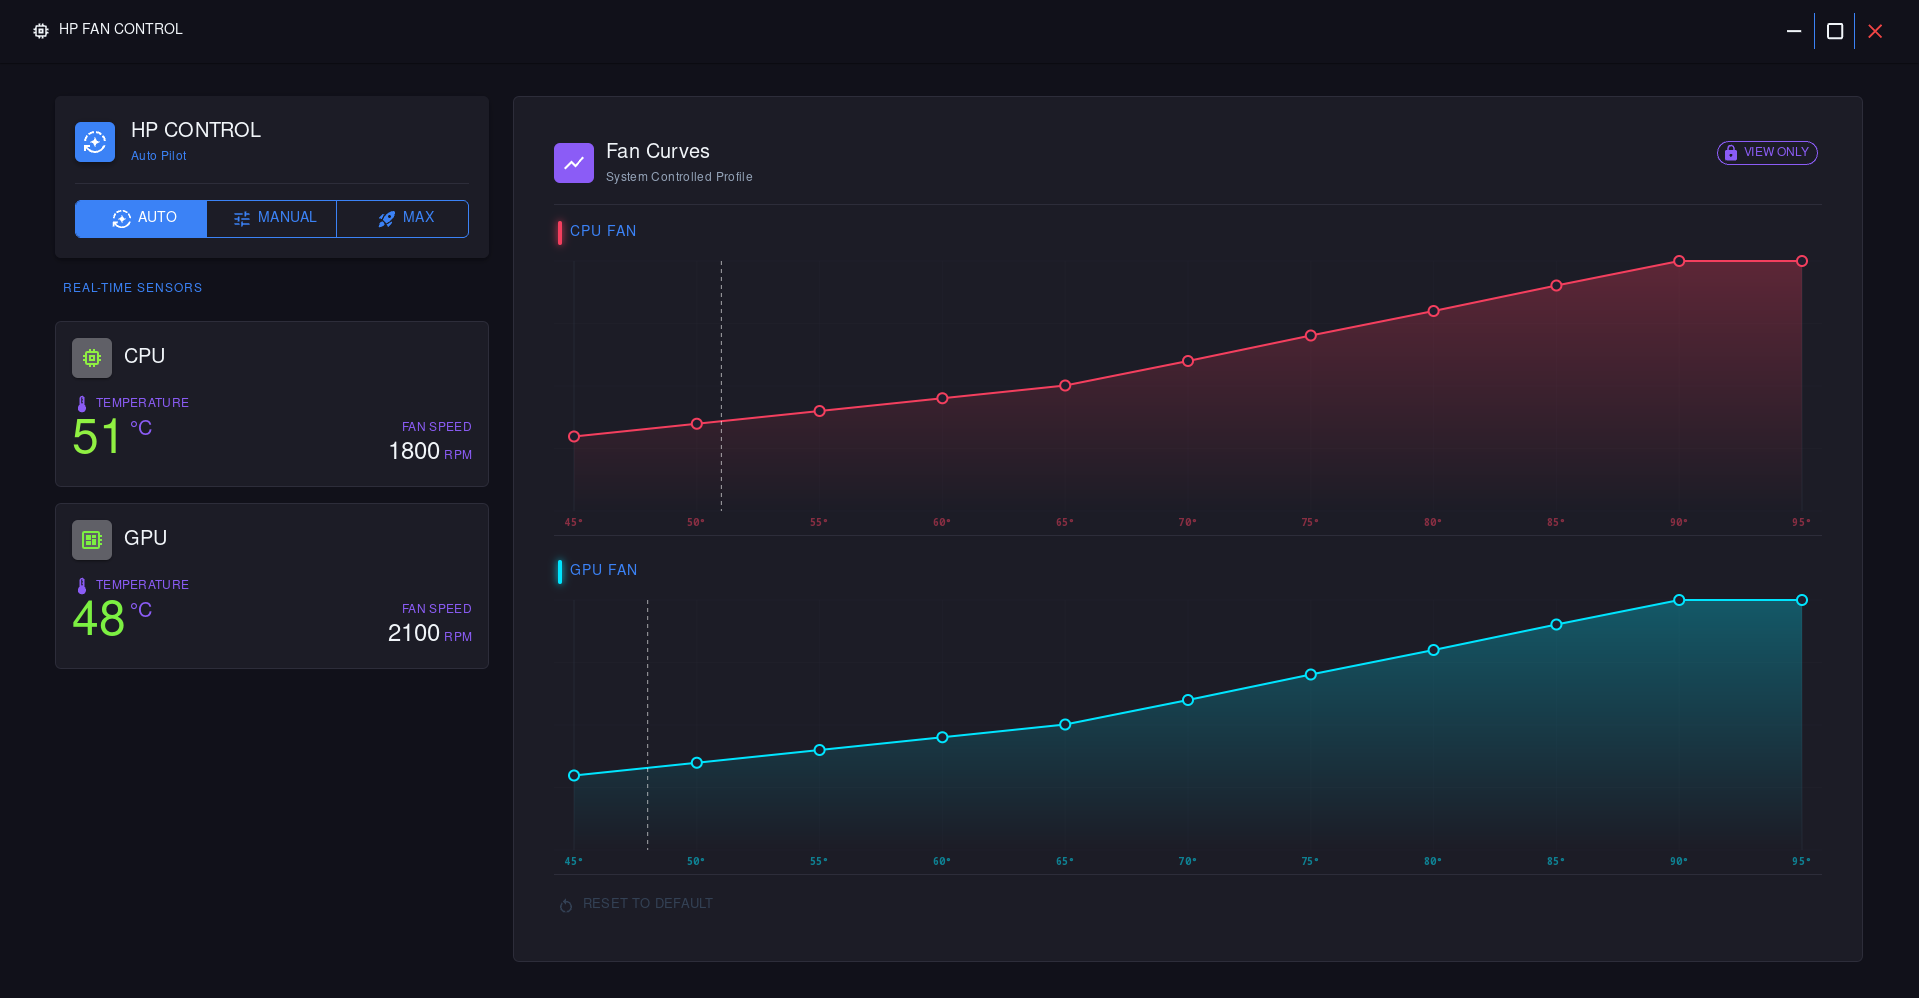
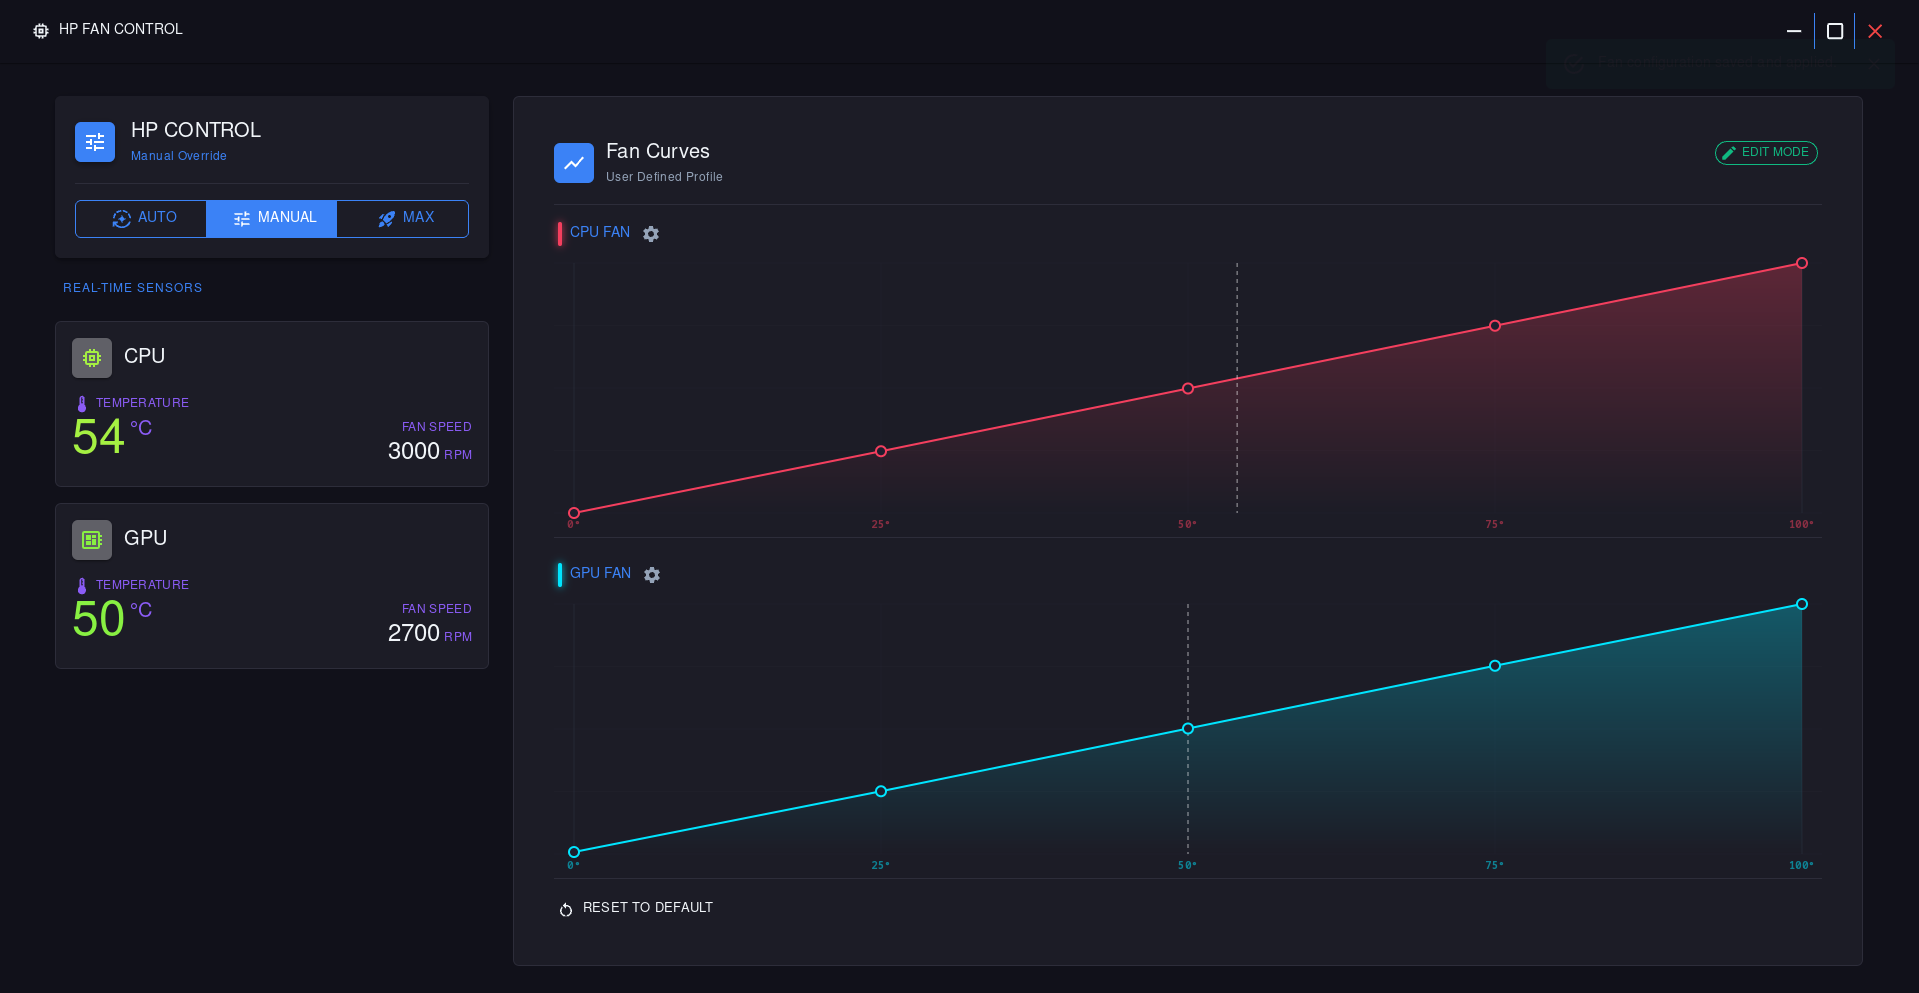
chore: prepare release v2.2.0

diff --git a/README.md b/README.md
@@ -1,14 +1,15 @@
 # HP Fan Control (Linux)
 
 ![Platform](https://img.shields.io/badge/platform-Linux-green.svg)
-![Version](https://img.shields.io/badge/version-v2.1.0-blue.svg)
+![Version](https://img.shields.io/badge/version-v2.2.0-blue.svg)
 ![License](https://img.shields.io/badge/license-GPL--3.0-blue.svg)
 
-A modern, highly optimized Linux desktop application and background daemon designed for **HP Victus** series laptops, allowing you to take full control of your thermal management.
+A modern, highly optimized Linux desktop application and background service designed for HP Victus series laptops, allowing you to take full control of your thermal management.
 
 <div align="center">
   <img src="docs/screenshot-main.png" alt="Main Interface">
-  <img src="docs/screenshot-tray.png" alt="Tray Menu">
+  <img src="docs/screenshot-point-settings.png" alt="Point Settings" width="45%">
+  <img src="docs/screenshot-tray.png" alt="Tray Menu" width="45%">
 </div>
 
 ---
@@ -26,23 +27,16 @@ Before installing this app, you **must** install the **HP WMI Driver** which exp
 
 ---
 
-## ✨ What's New in v2.0.0 (Major Update)
-
-- **System Tray Integration:** Runs silently in the background with a native tray menu.
-- **Global Keyboard Shortcuts (IPC):** Control fans and toggle the UI instantly via terminal commands without opening the window.
-- **Smart Installer:** The new installer automatically detects your distro, downloads required dependencies (`webkit2gtk`, `libayatana-appindicator`), configures `udev` rules, and assigns user groups.
-- **Modern Chromeless UI:** A fully custom, dark-themed borderless window with 8-way resizing and double-click to maximize support.
-- **Single Instance & Autostart:** Prevents multiple instances from running and can optionally start hidden on login.
-
----
-
 ## 🚀 Features
 
-- **Manual Curve Editor:** Create custom fan curves for CPU and GPU independently with an interactive graph.
+- **Dynamic Curve Editor (NEW):** Create custom fan curves for CPU and GPU independently. Add, remove, and manage temperature anchor points on the fly with smart auto-calculation and safety limits.
+- **System Tray Integration:** Runs silently in the background with a native tray menu.
+- **Global Keyboard Shortcuts (IPC):** Control fans and toggle the UI instantly via terminal commands without opening the window.
 - **Max Mode:** Instantly boosts fans to maximum RPM for peak cooling.
 - **Fail-Safe System:** Automatically reverts fans to "Auto" mode if the application crashes or closes.
 - **Persistence:** Remembers your last used mode and curves on startup.
 - **Live Monitoring:** Displays real-time CPU and GPU temperatures and Fan RPMs.
+- **Standalone Executable:** Runs natively as a single-file binary on Linux without requiring a pre-installed .NET runtime.
 
 ---
 